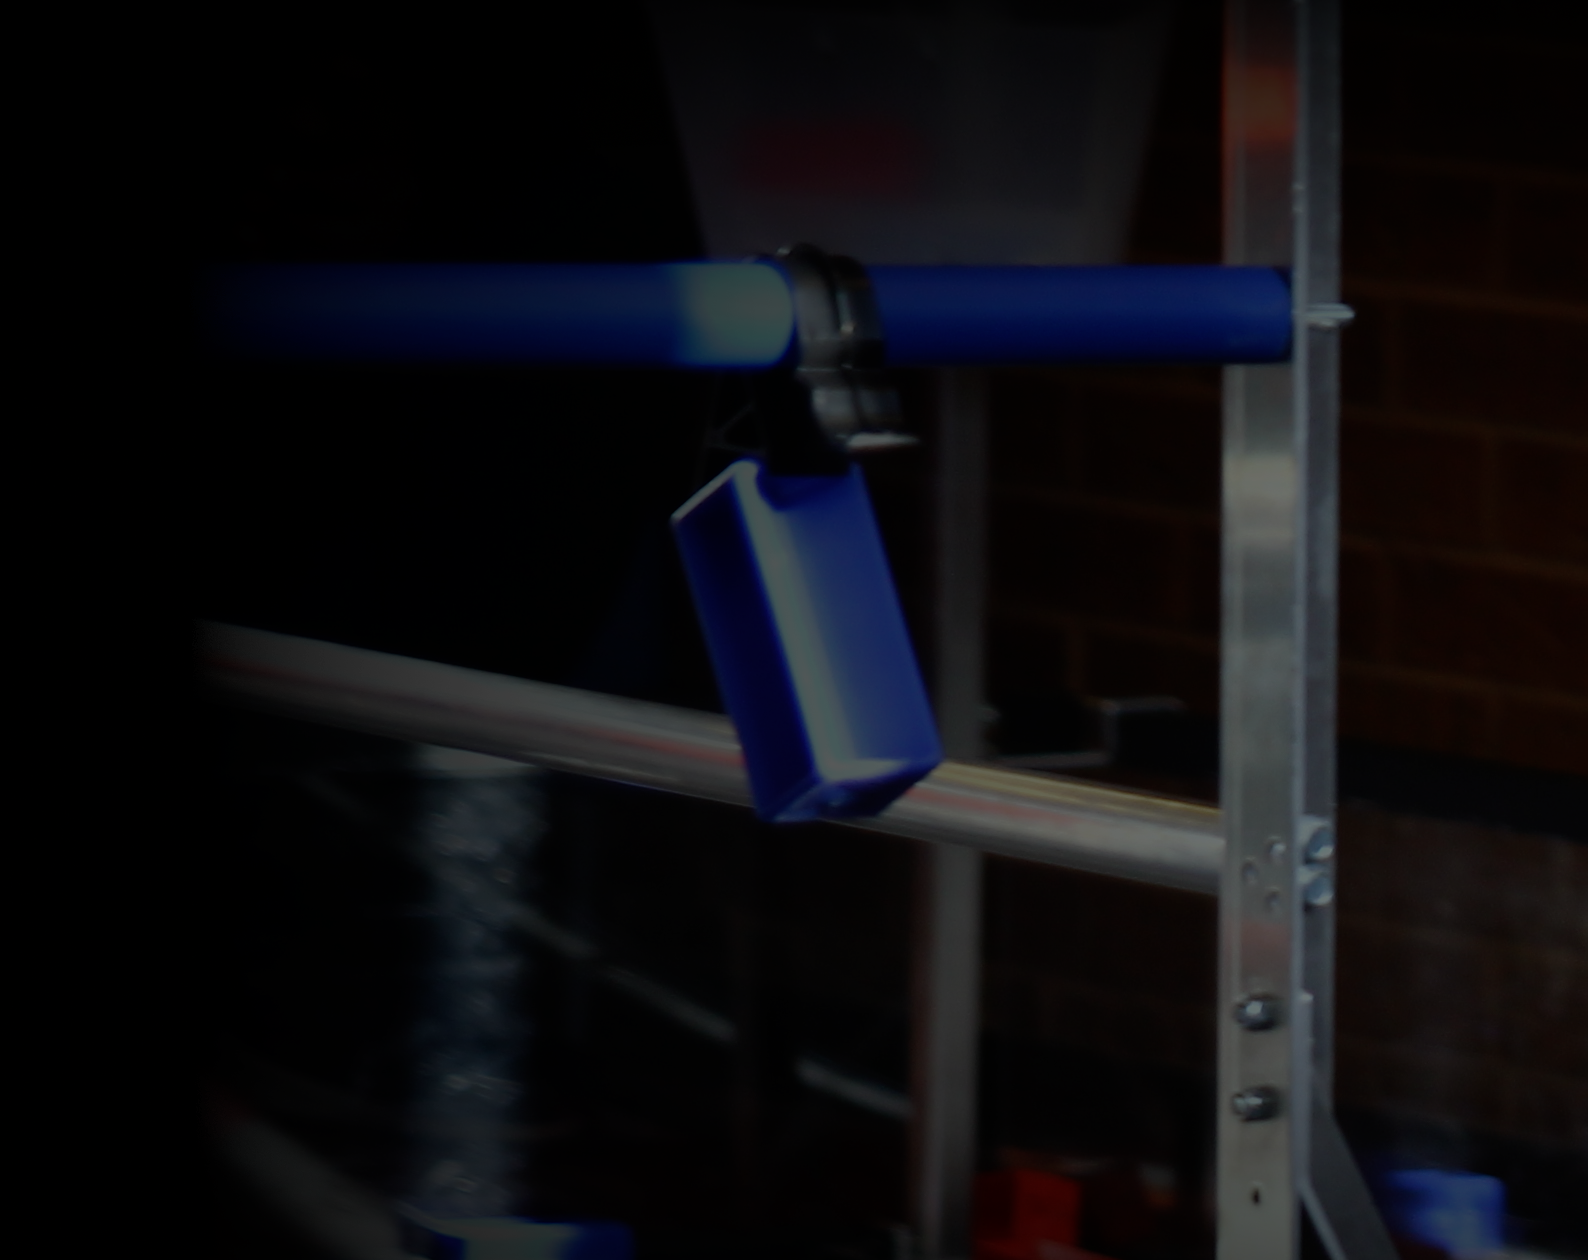
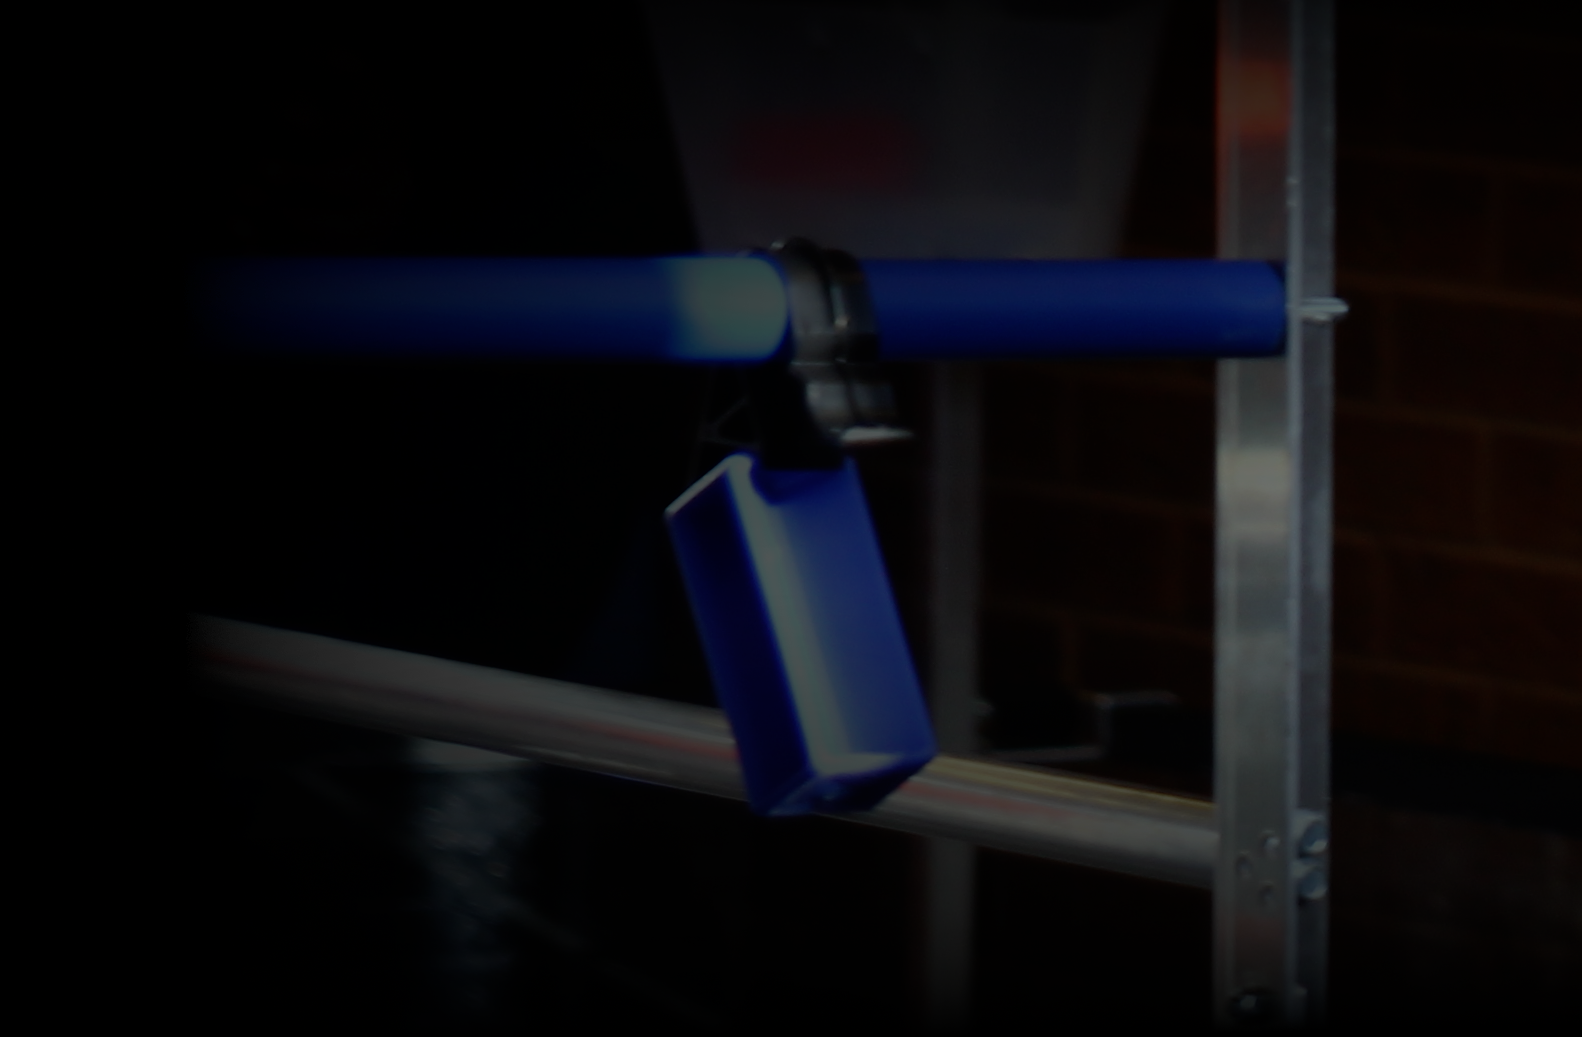
Revamp

diff --git a/budjetWebsite/style.css b/budjetWebsite/style.css
@@ -69,7 +69,7 @@ nav ul li a:hover::after {
   height: 7rem;
   background-color: var(--second-color);
   padding: 0;
-  z-index: 1;
+  z-index: 2;
   transition: 0.5s;
 }
 
@@ -80,7 +80,7 @@ nav ul li a:hover::after {
   width: 100%;
   height: 7rem;
   background-color: var(--main-color);
-  z-index: 1;
+  z-index: 2;
   transition: 0.5s;
 }
 
@@ -136,9 +136,9 @@ section {
 .homebody4 {
   background-color: black;
   height: 90vh;
-  background-image: url("images/gamepiece.png");
+  background-image: url("images/IMG_0878.JPG");
   background-repeat: no-repeat;
-  background-size:90%;
+  background-size:cover;
   background-position: 140% top;
 }
 

diff --git a/budjetWebsite/index.html b/budjetWebsite/index.html
@@ -34,7 +34,7 @@
         <h1 style="background-image: none; color: rgb(48, 47, 47)">
           BudjetTech Official Website
         </h1>
-        <p style="color: black">"The best club in Bethune" - Luxagan</p>
+        <p style="color: black">"If it works it works" - Luxagan</p>
       </div>
     </section>
 

diff --git a/budjetWebsite/team.html b/budjetWebsite/team.html
@@ -15,7 +15,7 @@
     />
   </head>
 
-  <body>
+  <body style="">
     <!-- nav bar -->
     <nav class="top-nav">
       <ul>
